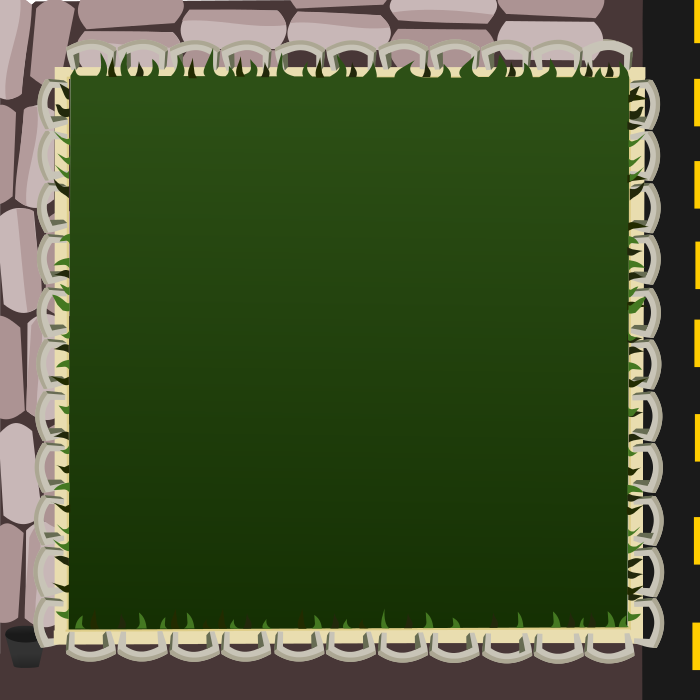
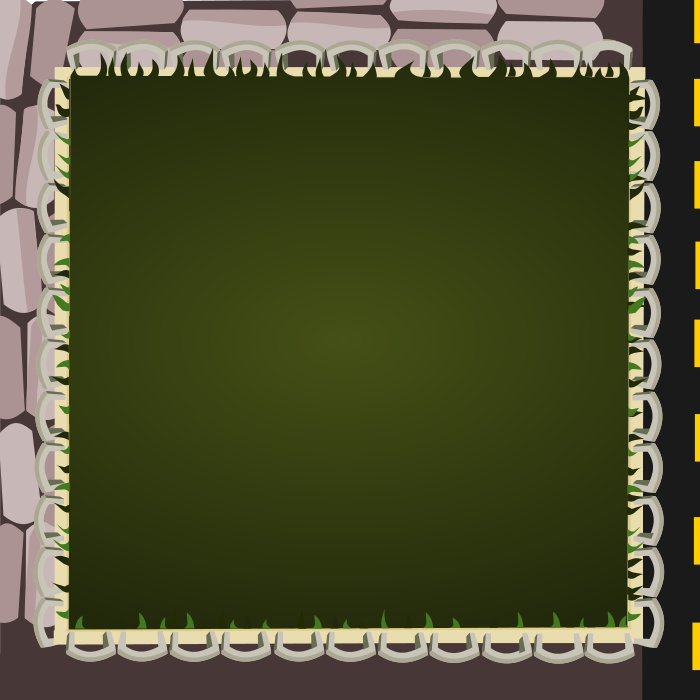
Added points count.

Changed region(s): [[0.24, 0.39, 0.72, 0.72], [0.09, 0.09, 0.9, 0.27], [0.0, 0.87, 0.06, 0.96]]

diff --git a/core/src/main/java/com/github/czyzby/bj2016/controller/GameController.java b/core/src/main/java/com/github/czyzby/bj2016/controller/GameController.java
@@ -10,6 +10,7 @@ import com.badlogic.gdx.physics.box2d.Box2DDebugRenderer;
 import com.badlogic.gdx.scenes.scene2d.Action;
 import com.badlogic.gdx.scenes.scene2d.Stage;
 import com.badlogic.gdx.scenes.scene2d.actions.Actions;
+import com.badlogic.gdx.scenes.scene2d.ui.Label;
 import com.badlogic.gdx.scenes.scene2d.ui.Table;
 import com.badlogic.gdx.utils.Array;
 import com.badlogic.gdx.utils.IntMap;
@@ -28,6 +29,7 @@ import com.github.czyzby.bj2016.entity.sprite.PlayerSprite;
 import com.github.czyzby.bj2016.service.Box2DService;
 import com.github.czyzby.bj2016.service.GameAssetService;
 import com.github.czyzby.bj2016.util.Box2DUtil;
+import com.github.czyzby.kiwi.util.common.Strings;
 import com.github.czyzby.kiwi.util.gdx.collection.GdxArrays;
 import com.github.czyzby.kiwi.util.gdx.collection.pooled.PooledList;
 import com.github.czyzby.lml.annotation.LmlActor;
@@ -40,8 +42,13 @@ public class GameController extends StandardViewShower implements ViewResizer, V
     @Inject private Box2DService box2d;
     @Inject private GameAssetService gameAssetService;
     @LmlActor("player[0," + (Configuration.PLAYERS_AMOUNT - 1) + "]") Array<Table> playerViews;
+    @LmlActor("points[0," + (Configuration.PLAYERS_AMOUNT - 1) + "]") Array<Label> pointLabels;
+    private final int[] cachedPoints = new int[Configuration.PLAYERS_AMOUNT];
+    private final StringBuilder[] builders = new StringBuilder[] { new StringBuilder(), new StringBuilder(),
+            new StringBuilder(), new StringBuilder() };
     private final Box2DDebugRenderer renderer = new Box2DDebugRenderer();
     private final Array<PlayerSprite> sprites = GdxArrays.newArray();
+    private final Array<PlayerSprite> deadPlayers = GdxArrays.newArray();
     private final PooledList<BlockSprite> blocks = PooledList.newList();
     private final PooledList<MinionSprite> minions = PooledList.newList();
     private final float white = Color.WHITE.toFloatBits();
@@ -69,10 +76,12 @@ public class GameController extends StandardViewShower implements ViewResizer, V
 
     private void createPlayerSprites() {
         sprites.clear();
+        deadPlayers.clear();
         for (final Player player : box2d.getPlayers()) {
             final Sprite sprite = gameAssetService.getSprite(player.getSprite().getDrawableName());
             sprites.add(new PlayerSprite(player, sprite));
             playerViews.get(player.getId()).setVisible(true);
+            pointLabels.get(player.getId()).setText(String.valueOf(player.getId()));
         }
     }
 
@@ -123,17 +132,45 @@ public class GameController extends StandardViewShower implements ViewResizer, V
                 block.draw(batch);
             }
         }
+        for (final PlayerSprite player : deadPlayers) {
+            player.update(delta);
+            player.draw(batch);
+        }
         for (final MinionSprite minion : minions) {
             if (minion.render(batch, delta)) {
                 minions.remove();
             }
         }
-        for (final PlayerSprite sprite : sprites) {
-            sprite.update(delta);
-            sprite.draw(batch);
-        }
+        renderPlayers(delta, batch);
         batch.end();
         stage.act(delta);
         stage.draw();
+    }
+
+    private void renderPlayers(final float delta, final Batch batch) {
+        boolean removeDead = false;
+        for (final PlayerSprite sprite : sprites) {
+            sprite.update(delta);
+            sprite.draw(batch);
+            final Player player = sprite.getPlayer();
+            if (player.getMinionsAmount() != cachedPoints[player.getId()]) {
+                cachedPoints[player.getId()] = player.getMinionsAmount();
+                final StringBuilder builder = builders[player.getId()];
+                Strings.clearBuilder(builder);
+                builder.append(player.getMinionsAmount());
+                pointLabels.get(player.getId()).setText(builder);
+            }
+            if (sprite.isDead()) {
+                deadPlayers.add(sprite);
+                removeDead = true;
+            }
+        }
+        if (removeDead) {
+            for (int index = sprites.size - 1; index >= 0; index--) {
+                if (sprites.get(index).isDead()) {
+                    sprites.removeIndex(index);
+                }
+            }
+        }
     }
 }

diff --git a/core/src/main/java/com/github/czyzby/bj2016/entity/Minion.java b/core/src/main/java/com/github/czyzby/bj2016/entity/Minion.java
@@ -21,6 +21,7 @@ public class Minion extends AbstractEntity {
     private final Vector2 movement = new Vector2();
     private float timeSinceLastTrack = MathUtils.random(TRACK_REFRESH);
     @SuppressWarnings("unused") private final GridService grid;
+    private float health = 20f;
 
     public Minion(final Box2DService box2d, final Player parent, final GridService grid) {
         super(box2d, parent.getId());
@@ -123,5 +124,66 @@ public class Minion extends AbstractEntity {
             default:
                 return Box2DUtil.MASK_MINION_P3;
         }
+    }
+
+    @Override
+    public void beginCollision(final Entity entity) {
+        if (entity.getType() == EntityType.MINION) {
+            final Minion other = (Minion) entity;
+            if (other.getId() <= getId()) {
+                // We want just one of the minions to handle collision.
+                return;
+            }
+            final float offset = getDirectionOffset(body, other.body);
+            final float otherOffset = getDirectionOffset(other.body, body);
+            if (offset > otherOffset) {
+                damage(other.body);
+            } else if (otherOffset > offset) {
+                other.damage(body);
+            } else {
+                final float force = getTotalForce(body);
+                final float otherForce = getTotalForce(other.body);
+                if (force > otherForce) {
+                    other.damage(body);
+                } else if (force < otherForce) {
+                    damage(other.body);
+                }
+            }
+        }
+    }
+
+    /** @param body body of the minion that damaged this entity. */
+    private void damage(final Body body) {
+        final float angle = MathUtils.atan2(body.getPosition().y - this.body.getPosition().y,
+                body.getPosition().x - this.body.getPosition().x);
+        health -= getTotalForce(body);
+        this.body.applyForceToCenter(MathUtils.cos(angle) * Box2DUtil.MINION_SPEED,
+                MathUtils.sin(angle) * Box2DUtil.MINION_SPEED, true);
+        if (health <= 0f) {
+            setDestroyed(true);
+        }
+    }
+
+    @Override
+    public void setDestroyed(final boolean destroyed) {
+        if (isDestroyed()) {
+            return;
+        }
+        super.setDestroyed(destroyed);
+        parent.removeMinion();
+    }
+
+    private static float getTotalForce(final Body body) {
+        return Math.abs(body.getLinearVelocity().x) + Math.abs(body.getLinearVelocity().y);
+    }
+
+    private static float getDirectionOffset(final Body body, final Body other) {
+        final Vector2 velocity = body.getLinearVelocity();
+        float angle = MathUtils.atan2(velocity.y, velocity.x);
+        final float x = MathUtils.cos(angle);
+        final float y = MathUtils.sin(angle);
+        angle = MathUtils.atan2(other.getPosition().y - body.getPosition().y,
+                other.getPosition().x - body.getPosition().x);
+        return Math.abs(x - MathUtils.cos(angle)) + Math.abs(y - MathUtils.sin(angle));
     }
 }

diff --git a/core/src/main/java/com/github/czyzby/bj2016/service/Box2DService.java b/core/src/main/java/com/github/czyzby/bj2016/service/Box2DService.java
@@ -92,6 +92,7 @@ public class Box2DService extends AbstractService {
             final float y = index / 8;
             final Minion minion = new Minion(this, player, gridService);
             minion.getBody().setTransform(x * 1.1f + playerX, y * 1.1f + playerY, 0f);
+            player.addMinion();
             minions.add(minion);
         }
     }
@@ -132,27 +133,44 @@ public class Box2DService extends AbstractService {
             updated = true;
             timeSinceUpdate -= STEP;
             world.step(STEP, 8, 3);
-            for (final Player player : players) {
-                player.update(STEP);
-            }
-            for (final Block block : blocks) {
-                block.update(delta);
-                if (block.isDestroyed()) {
-                    block.destroy();
-                    // TODO Sound?
-                    blocks.remove();
-                }
-            }
-            for (final Minion minion : minions) {
-                minion.update(delta);
-                if (minion.isDestroyed()) {
-                    minion.destroy();
-                    // TODO SOUND?
-                    minions.remove();
-                }
-            }
+            updatePlayers();
+            updateBlocks(delta);
+            updateMinions(delta);
         }
         return updated;
+    }
+
+    private void updatePlayers() {
+        for (int index = players.size - 1; index >= 0; index--) {
+            final Player player = players.get(index);
+            player.update(STEP);
+            if (player.isDestroyed()) {
+                player.destroy();
+                players.removeValue(player, true);
+            }
+        }
+    }
+
+    private void updateBlocks(final float delta) {
+        for (final Block block : blocks) {
+            block.update(delta);
+            if (block.isDestroyed()) {
+                block.destroy();
+                // TODO Sound?
+                blocks.remove();
+            }
+        }
+    }
+
+    private void updateMinions(final float delta) {
+        for (final Minion minion : minions) {
+            minion.update(delta);
+            if (minion.isDestroyed()) {
+                minion.destroy();
+                // TODO SOUND?
+                minions.remove();
+            }
+        }
     }
 
     /** @return list of current players. */

diff --git a/core/src/main/java/com/github/czyzby/bj2016/entity/sprite/PlayerSprite.java b/core/src/main/java/com/github/czyzby/bj2016/entity/sprite/PlayerSprite.java
@@ -15,6 +15,7 @@ public class PlayerSprite implements Comparable<PlayerSprite> {
     private final Sprite sprite;
     private final FloatRange rotation = new FloatRange(0f, 0.3f);
     private boolean stopped = true;
+    private boolean removing;
 
     public PlayerSprite(final Player player, final Sprite sprite) {
         this.player = player;
@@ -23,9 +24,22 @@ public class PlayerSprite implements Comparable<PlayerSprite> {
         sprite.setOrigin(sprite.getRegionWidth() / 2f / Box2DUtil.PPU, sprite.getRegionWidth() / 2f / Box2DUtil.PPU);
     }
 
+    /** @return game entity. */
+    public Player getPlayer() {
+        return player;
+    }
+
     /** @param delta time since last update. */
     public void update(final float delta) {
-        if (player.isMoving()) {
+        if (player.isDestroyed()) {
+            if (!removing) {
+                removing = true;
+                rotation.setTargetValue(MathUtils.randomBoolean() ? 90f : 270f);
+            }
+            rotation.update(delta);
+            sprite.setRotation(rotation.getCurrentValue());
+            return;
+        } else if (player.isMoving()) {
             if (stopped) {
                 stopped = false;
                 rotation.setTargetValue(MathUtils.randomBoolean() ? 11f : -11f);
@@ -53,5 +67,10 @@ public class PlayerSprite implements Comparable<PlayerSprite> {
     public int compareTo(final PlayerSprite other) {
         final float y = player.getY(), otherY = other.player.getY();
         return y > otherY ? -1 : y < otherY ? 1 : 0;
+    }
+
+    /** @return true if player is dead. */
+    public boolean isDead() {
+        return player.isDestroyed();
     }
 }

diff --git a/core/src/main/java/com/github/czyzby/bj2016/entity/BoundsEntity.java b/core/src/main/java/com/github/czyzby/bj2016/entity/BoundsEntity.java
@@ -1,5 +1,7 @@
 package com.github.czyzby.bj2016.entity;
 
+import com.badlogic.gdx.math.MathUtils;
+import com.badlogic.gdx.math.Vector2;
 import com.badlogic.gdx.physics.box2d.Body;
 import com.badlogic.gdx.physics.box2d.BodyDef;
 import com.badlogic.gdx.physics.box2d.BodyDef.BodyType;
@@ -43,5 +45,16 @@ public class BoundsEntity extends AbstractEntity {
         final Body body = box2d.getWorld().createBody(bodyDef);
         body.createFixture(fixtureDef);
         return body;
+    }
+
+    @Override
+    public void beginCollision(final Entity entity) {
+        if (entity.getType() == EntityType.PLAYER) {
+            final Vector2 velocity = entity.getBody().getLinearVelocity();
+            final float angle = MathUtils.atan2(velocity.y + MathUtils.random(-2f, 2f),
+                    velocity.x + MathUtils.random(-2f, 2f));
+            entity.getBody().applyForceToCenter(MathUtils.cos(angle) * Box2DUtil.PLAYER_SPEED,
+                    MathUtils.sin(angle) * Box2DUtil.PLAYER_SPEED, true);
+        }
     }
 }

diff --git a/core/src/main/java/com/github/czyzby/bj2016/entity/Player.java b/core/src/main/java/com/github/czyzby/bj2016/entity/Player.java
@@ -19,6 +19,7 @@ import com.github.czyzby.bj2016.util.Box2DUtil;
 public class Player extends AbstractEntity {
     private final Control control;
     private final SpriteType sprite;
+    private int minionsAmount;
 
     public Player(final Box2DService box2d, final int id, final Control control, final SpriteType sprite) {
         super(box2d, id);
@@ -111,5 +112,23 @@ public class Player extends AbstractEntity {
     public boolean isMoving() {
         final Vector2 dir = control.getMovementDirection();
         return dir.x != 0f || dir.y != 0f;
+    }
+
+    /** Increments minions counter. */
+    public void addMinion() {
+        minionsAmount++;
+    }
+
+    /** Decrements minions counter. */
+    public void removeMinion() {
+        minionsAmount--;
+        if (minionsAmount == 0) {
+            setDestroyed(true);
+        }
+    }
+
+    /** @return current amount of minions. */
+    public int getMinionsAmount() {
+        return minionsAmount;
     }
 }

diff --git a/core/src/main/java/com/github/czyzby/bj2016/service/controls/impl/ComputerControl.java b/core/src/main/java/com/github/czyzby/bj2016/service/controls/impl/ComputerControl.java
@@ -30,6 +30,10 @@ public class ComputerControl extends AbstractControl {
         timeSinceMoveChange++;
         if (timeSinceTarget >= UPDATES_TO_CHANGE_TARGET) {
             timeSinceTarget -= UPDATES_TO_CHANGE_TARGET;
+            if (box2d.getPlayers().size <= 1) {
+                target = bot;
+                return;
+            }
             target = box2d.getPlayers().random();
             if (target == bot) {
                 target = box2d.getPlayers()

diff --git a/core/src/main/java/com/github/czyzby/bj2016/entity/sprite/SpriteType.java b/core/src/main/java/com/github/czyzby/bj2016/entity/sprite/SpriteType.java
@@ -6,10 +6,11 @@ package com.github.czyzby.bj2016.entity.sprite;
 public enum SpriteType {
     THUG("dres"),
     FAN("kibol"),
-    EMO("emo"),
     LADY("moher"),
+    PUNK("punk"),
+    BUM("menel"),
     BARBIE("barbie"),
-    PUNK("punk");
+    EMO("emo");
 
     private final String id;
     private final String smallDrawable;
